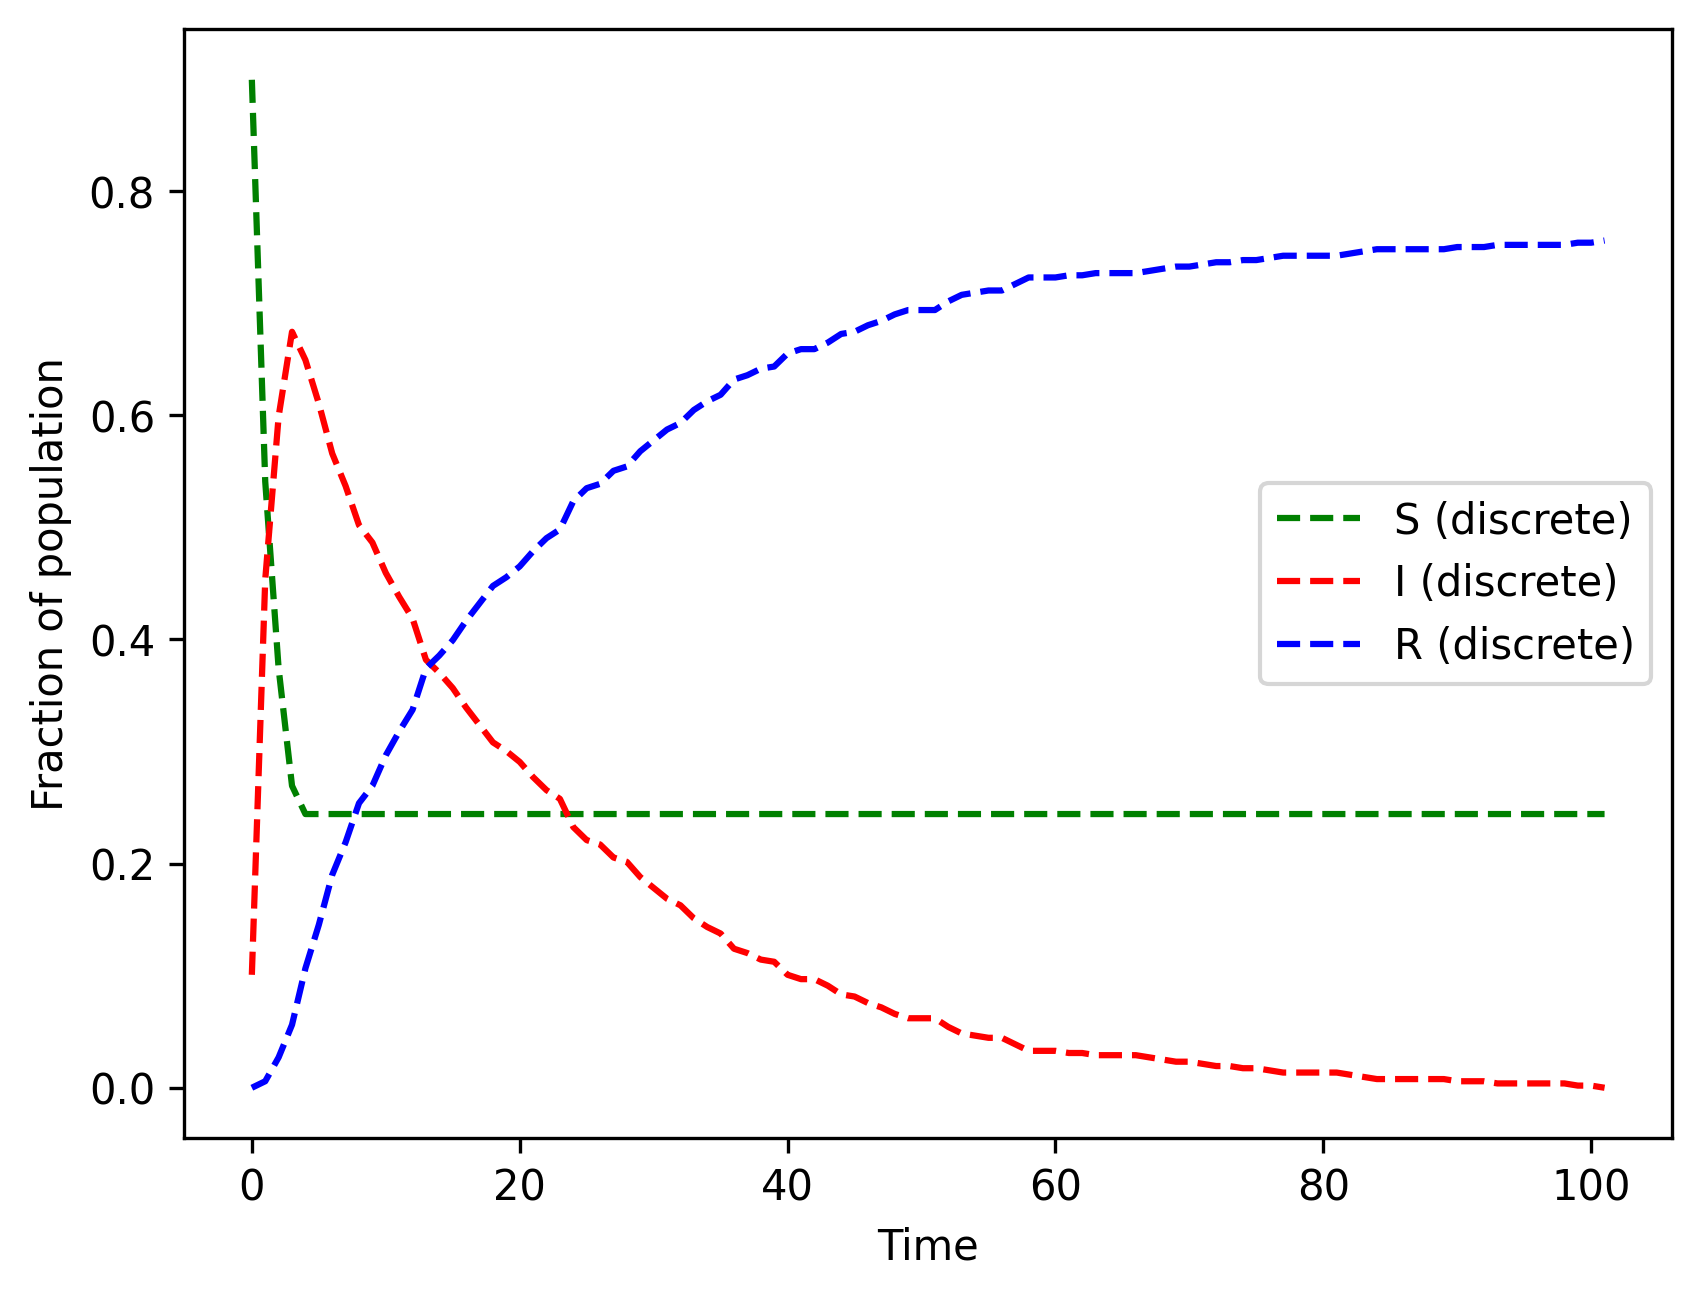
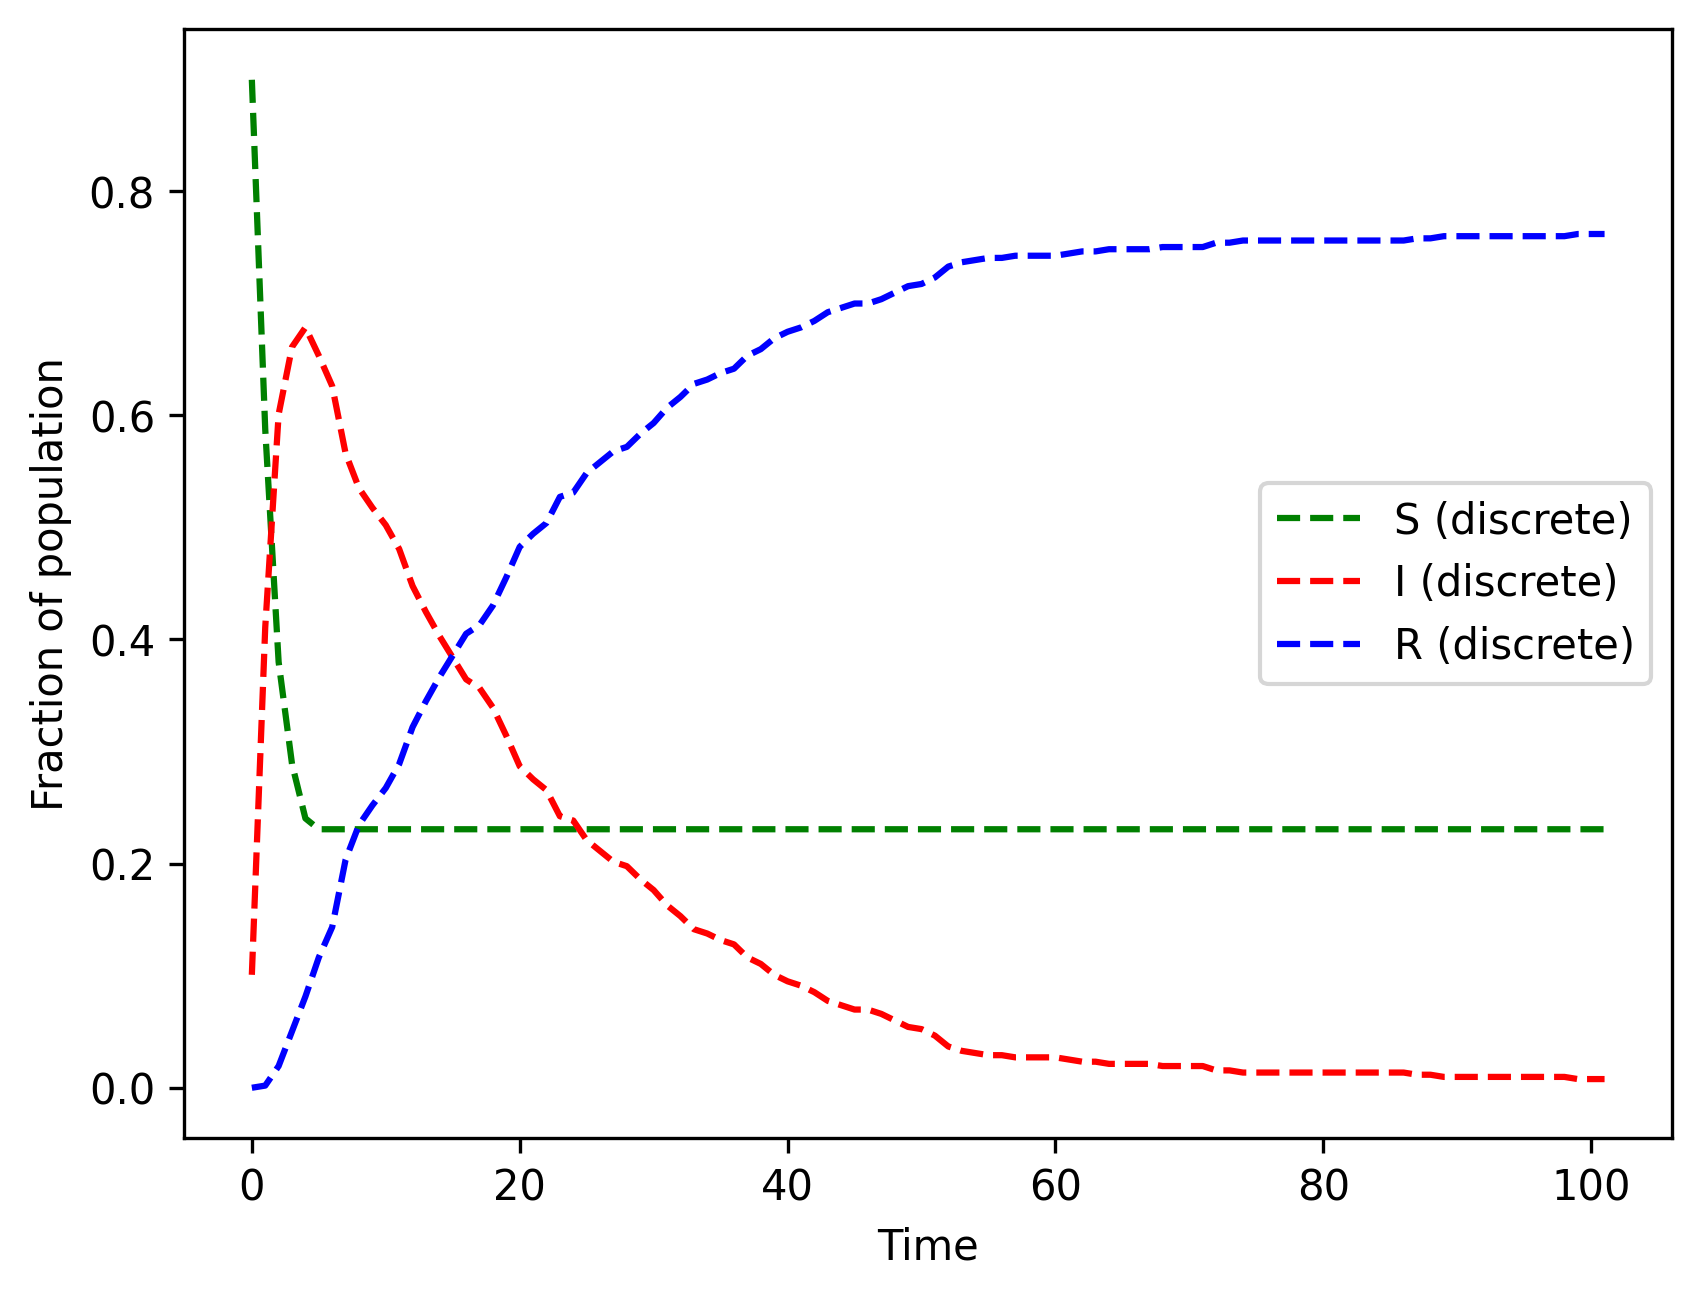
most recent

diff --git a/edge_rewiring/dynamics_on_model.py b/edge_rewiring/dynamics_on_model.py
@@ -25,8 +25,8 @@ def dynamics_on_model(es, approx_num_C, num_max_hyperedge, num_node, min_size=2,
         compare_interval_smaller_case=compare_interval_smaller_case, 
         compare_interval_bigger_case=compare_interval_bigger_case, 
     )
-    H = xgi.load_xgi_data("diseasome")
-    H.cleanup(singletons=True, multiedges=True, connected=True)
+    # H = xgi.load_xgi_data("diseasome")
+    # H.cleanup(connected=True)
     print("es", edit_simpliciality(H))
     print("num_nodes", H.num_nodes)
     print("num_edges", H.num_edges)
@@ -52,9 +52,9 @@ if __name__ == "__main__":
     # for es in es_list:
     #     dynamics_on_model(es, 9000, 300, 1000, 2, 11, True, 2, 2)
     dynamics_on_model(
-        es=0.04758,
+        es=0.04538,
         approx_num_C=4550,  # Set high to allow target_num_edges to work
-        num_max_hyperedge=304,
+        num_max_hyperedge=292,
         num_node=516,
         min_size=2,
         max_size=None,
